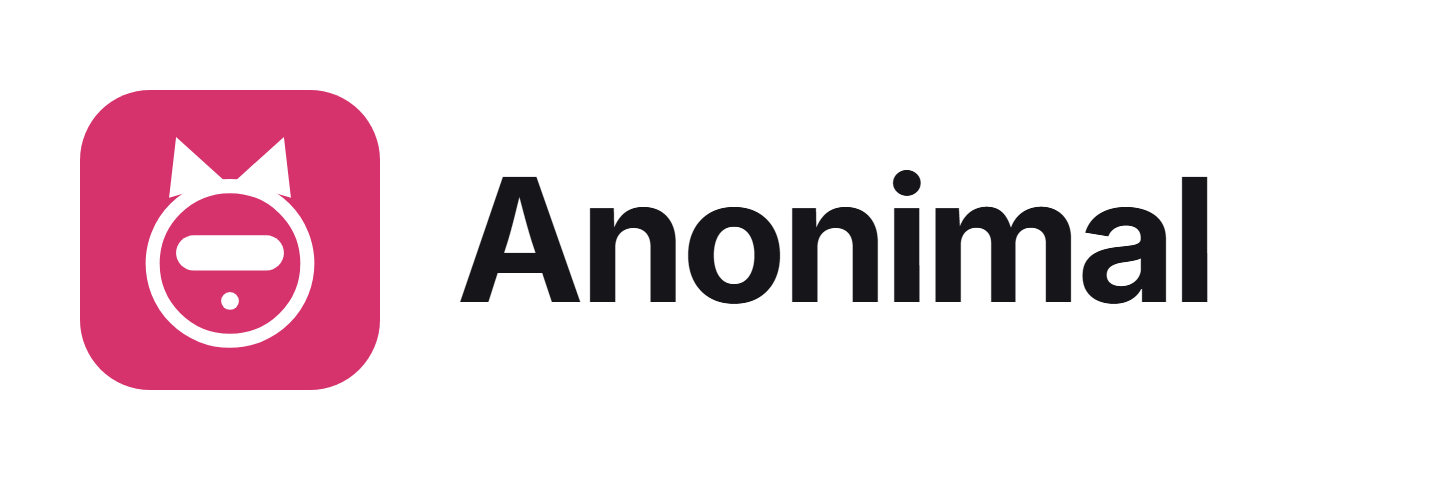
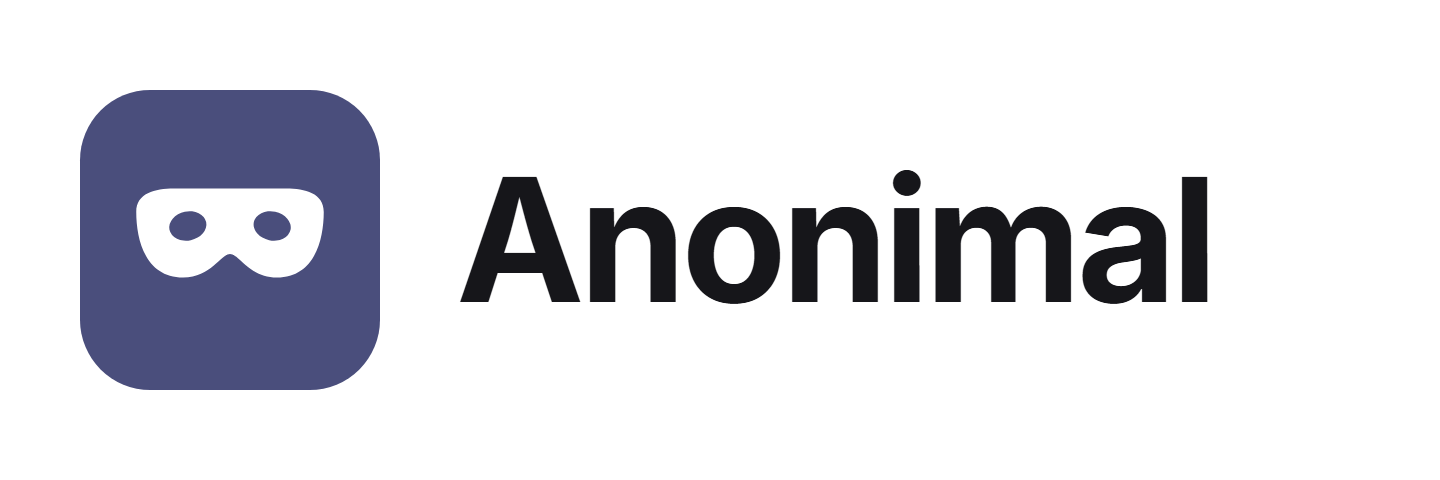
Brand: sync al sistema del ecosistema (antifaz #4a4e7c)
Alinea el brand/ con el brand board canonico (E:\Claude\ecosistema-brand):
- color fucsia #d6336c -> indigo antifaz #4a4e7c
- isotipo cabeza-de-animal -> antifaz (mascara con huecos de ojos)
- logo/favicon/wordmark/lockup + PNG regenerado + BRANDING.md (tokens light/dark)

Changed region(s): [[0.0312, 0.1875, 0.2812, 0.8125]]

diff --git a/brand/BRANDING.md b/brand/BRANDING.md
@@ -5,6 +5,10 @@ Anonimal es el guardián de privacidad del ecosistema **Escriba** (junto a
 localmente, sobre CPU: *detecta, no decide*. La marca tiene que sentirse parte
 de la misma suite —el "violín afinado"— pero con voz propia.
 
+> Fuente de verdad del sistema: el **brand board** del ecosistema en
+> `E:\Claude\ecosistema-brand` (logos + paleta canónica). Este archivo es la
+> bajada de ese sistema a Anonimal.
+
 Reglas heredadas del ecosistema (no negociables):
 
 - Tipografía **Inter Variable** (con fallback al stack del sistema).
@@ -12,23 +16,24 @@ Reglas heredadas del ecosistema (no negociables):
   script anti-FOUC en `<head>`.
 - **Sin emojis** en la UI: íconos de línea SVG.
 - **Español neutro** (sin voseo).
-- Cada app con **su acento propio**. El de Anonimal es el **fucsia magenta**.
+- Tile compartido: cuadrado redondeado (`viewBox 0 0 64 64`, `rx=15`), un color
+  plano de marca y un símbolo **blanco** centrado. Sin gradientes ni sombras.
+- Cada app con **su acento propio**. El de Anonimal es el **índigo antifaz**.
 
 ---
 
-## Acento de marca — Fucsia magenta
+## Acento de marca — Índigo antifaz
 
-Los acentos ya tomados del ecosistema son **naranja/coral** (Escriba), **verde
-esmeralda** (Fisherboy) y **azul→violeta/lavanda** (Extracta). El fucsia magenta
-cae en un hueco totalmente libre de la rueda (hue ~335°): no se confunde con
-ninguno, mantiene la energía saturada de la suite y lee perfecto con el isotipo
-en blanco.
+Color plano **`#4a4e7c`**: un índigo apagado, tono "noche / máscara". Convive con
+el resto del ecosistema (coral Escriba `#e06a3a`, teal Fisherboy `#0f8f6a`,
+violeta Extracta `#6c5cf0`) como la nota más sobria y reservada — coherente con
+"esconder, proteger".
 
 | Rol | Claro | Oscuro |
 |---|---|---|
-| Acento | `#d6336c` | `#f06595` |
-| Acento (press / hover) | `#b02a59` | `#e64980` |
-| Texto sobre acento | `#ffffff` | `#2a0f17` |
+| Acento | `#4a4e7c` | `#9aa0db` |
+| Acento (press / hover) | `#3c3f66` | `#7e84c4` |
+| Texto sobre acento | `#ffffff` | `#13141f` |
 
 ---
 
@@ -39,33 +44,33 @@ sobreescribe a claro.
 
 ```css
 :root {
-  --bg: #0f0a0c; --bg-2: #151013; --panel: #191317;
+  --bg: #0c0d14; --bg-2: #11131c; --panel: #161824;
   --card: rgba(255,255,255,0.04); --card-2: rgba(255,255,255,0.022);
   --border: rgba(255,255,255,0.10); --hairline: rgba(255,255,255,0.16);
-  --text: #f0edee; --muted: #9a8b90; --muted-2: #cdbfc4;
-  --accent: #f06595; --accent-2: #e64980;
-  --on-accent: #2a0f17;
+  --text: #edeef4; --muted: #8b8fa3; --muted-2: #c2c5d6;
+  --accent: #9aa0db; --accent-2: #7e84c4;
+  --on-accent: #13141f;
   --ok: #3fb950; --warn: #d6a01a; --err: #f85149;
   --radius: 12px; --radius-lg: 16px;
-  --ring: 0 0 0 3px rgba(240,101,149,.26);
+  --ring: 0 0 0 3px rgba(154,160,219,.26);
   --shadow: 0 1px 2px rgba(0,0,0,.4), 0 8px 24px -12px rgba(0,0,0,.6);
   color-scheme: dark;
 }
 [data-theme="light"] {
-  --bg: #fdf6f9; --bg-2: #ffffff; --panel: #ffffff;
-  --card: rgba(30,15,22,0.028); --card-2: rgba(30,15,22,0.016);
-  --border: rgba(30,15,22,0.10); --hairline: rgba(30,15,22,0.17);
-  --text: #1c151a; --muted: #7b6b73; --muted-2: #453840;
-  --accent: #d6336c; --accent-2: #b02a59;
+  --bg: #f7f7fb; --bg-2: #ffffff; --panel: #ffffff;
+  --card: rgba(18,20,40,0.028); --card-2: rgba(18,20,40,0.016);
+  --border: rgba(18,20,40,0.10); --hairline: rgba(18,20,40,0.17);
+  --text: #15161f; --muted: #6c6f80; --muted-2: #3a3c49;
+  --accent: #4a4e7c; --accent-2: #3c3f66;
   --on-accent: #ffffff;
   --ok: #1a7f37; --warn: #9a6700; --err: #cf222e;
-  --ring: 0 0 0 3px rgba(214,51,108,.18);
-  --shadow: 0 1px 2px rgba(30,15,22,.04), 0 12px 32px -16px rgba(30,15,22,.16);
+  --ring: 0 0 0 3px rgba(74,78,124,.20);
+  --shadow: 0 1px 2px rgba(18,20,40,.04), 0 12px 32px -16px rgba(18,20,40,.16);
   color-scheme: light;
 }
 ```
 
-`theme-color` recomendado: `#fdf6f9` (claro) / `#0f0a0c` (oscuro).
+`theme-color` recomendado: `#f7f7fb` (claro) / `#0c0d14` (oscuro).
 
 Fuente (igual que el resto del ecosistema):
 
@@ -83,23 +88,22 @@ letter-spacing: -.011em;
 ## Logo
 
 - **`logo.svg`** / **`favicon.svg`** — isotipo 64×64, tile redondeado (`rx=15`)
-  con el acento de fondo y la marca en blanco. Mismo formato que el resto del
-  ecosistema.
+  con el acento de fondo y el antifaz en blanco. Idéntico al canónico del brand
+  board del ecosistema.
 - **`logo-wordmark.svg`** — lockup horizontal (isotipo + "Anonimal"). El texto
   usa `currentColor`, así adopta `--text` del tema donde se inserte.
 - **`anonimal-lockup.svg`** / **`anonimal-lockup.png`** — lockup de presentación
   (texto negro, fondo transparente), mismo encuadre que el de Escriba. El PNG es
   720×240 @2x (1440×480) listo para componer.
 
-**Concepto:** una cabeza de animal con una **barra de censura** sobre los ojos.
-Une los dos sentidos del nombre —*anónimo* + *animal*— y dice exactamente lo que
-hace: oculta la identidad (redacción de PII). Trazo monolínea, geométrico, legible
-en tamaños chicos.
+**Concepto:** un **antifaz** (máscara con dos huecos para los ojos). Dice
+exactamente lo que hace la herramienta: *anonimiza antes de enviar* — el antifaz
+de tus datos hacia el LLM. Símbolo blanco, sólido, centrado y con aire.
 
 **Uso:** mantener el área de respeto (≈ media altura del tile) alrededor. No
 rotar, no deformar, no cambiar el color del isotipo (siempre acento + blanco).
-Sobre fondos oscuros el tile funciona igual; si se necesita la marca suelta sin
-tile, usar el fucsia `#f06595`.
+Si se necesita la marca suelta sin tile, usar el índigo `#9aa0db` (versión clara
+para fondos oscuros).
 
 ---
 